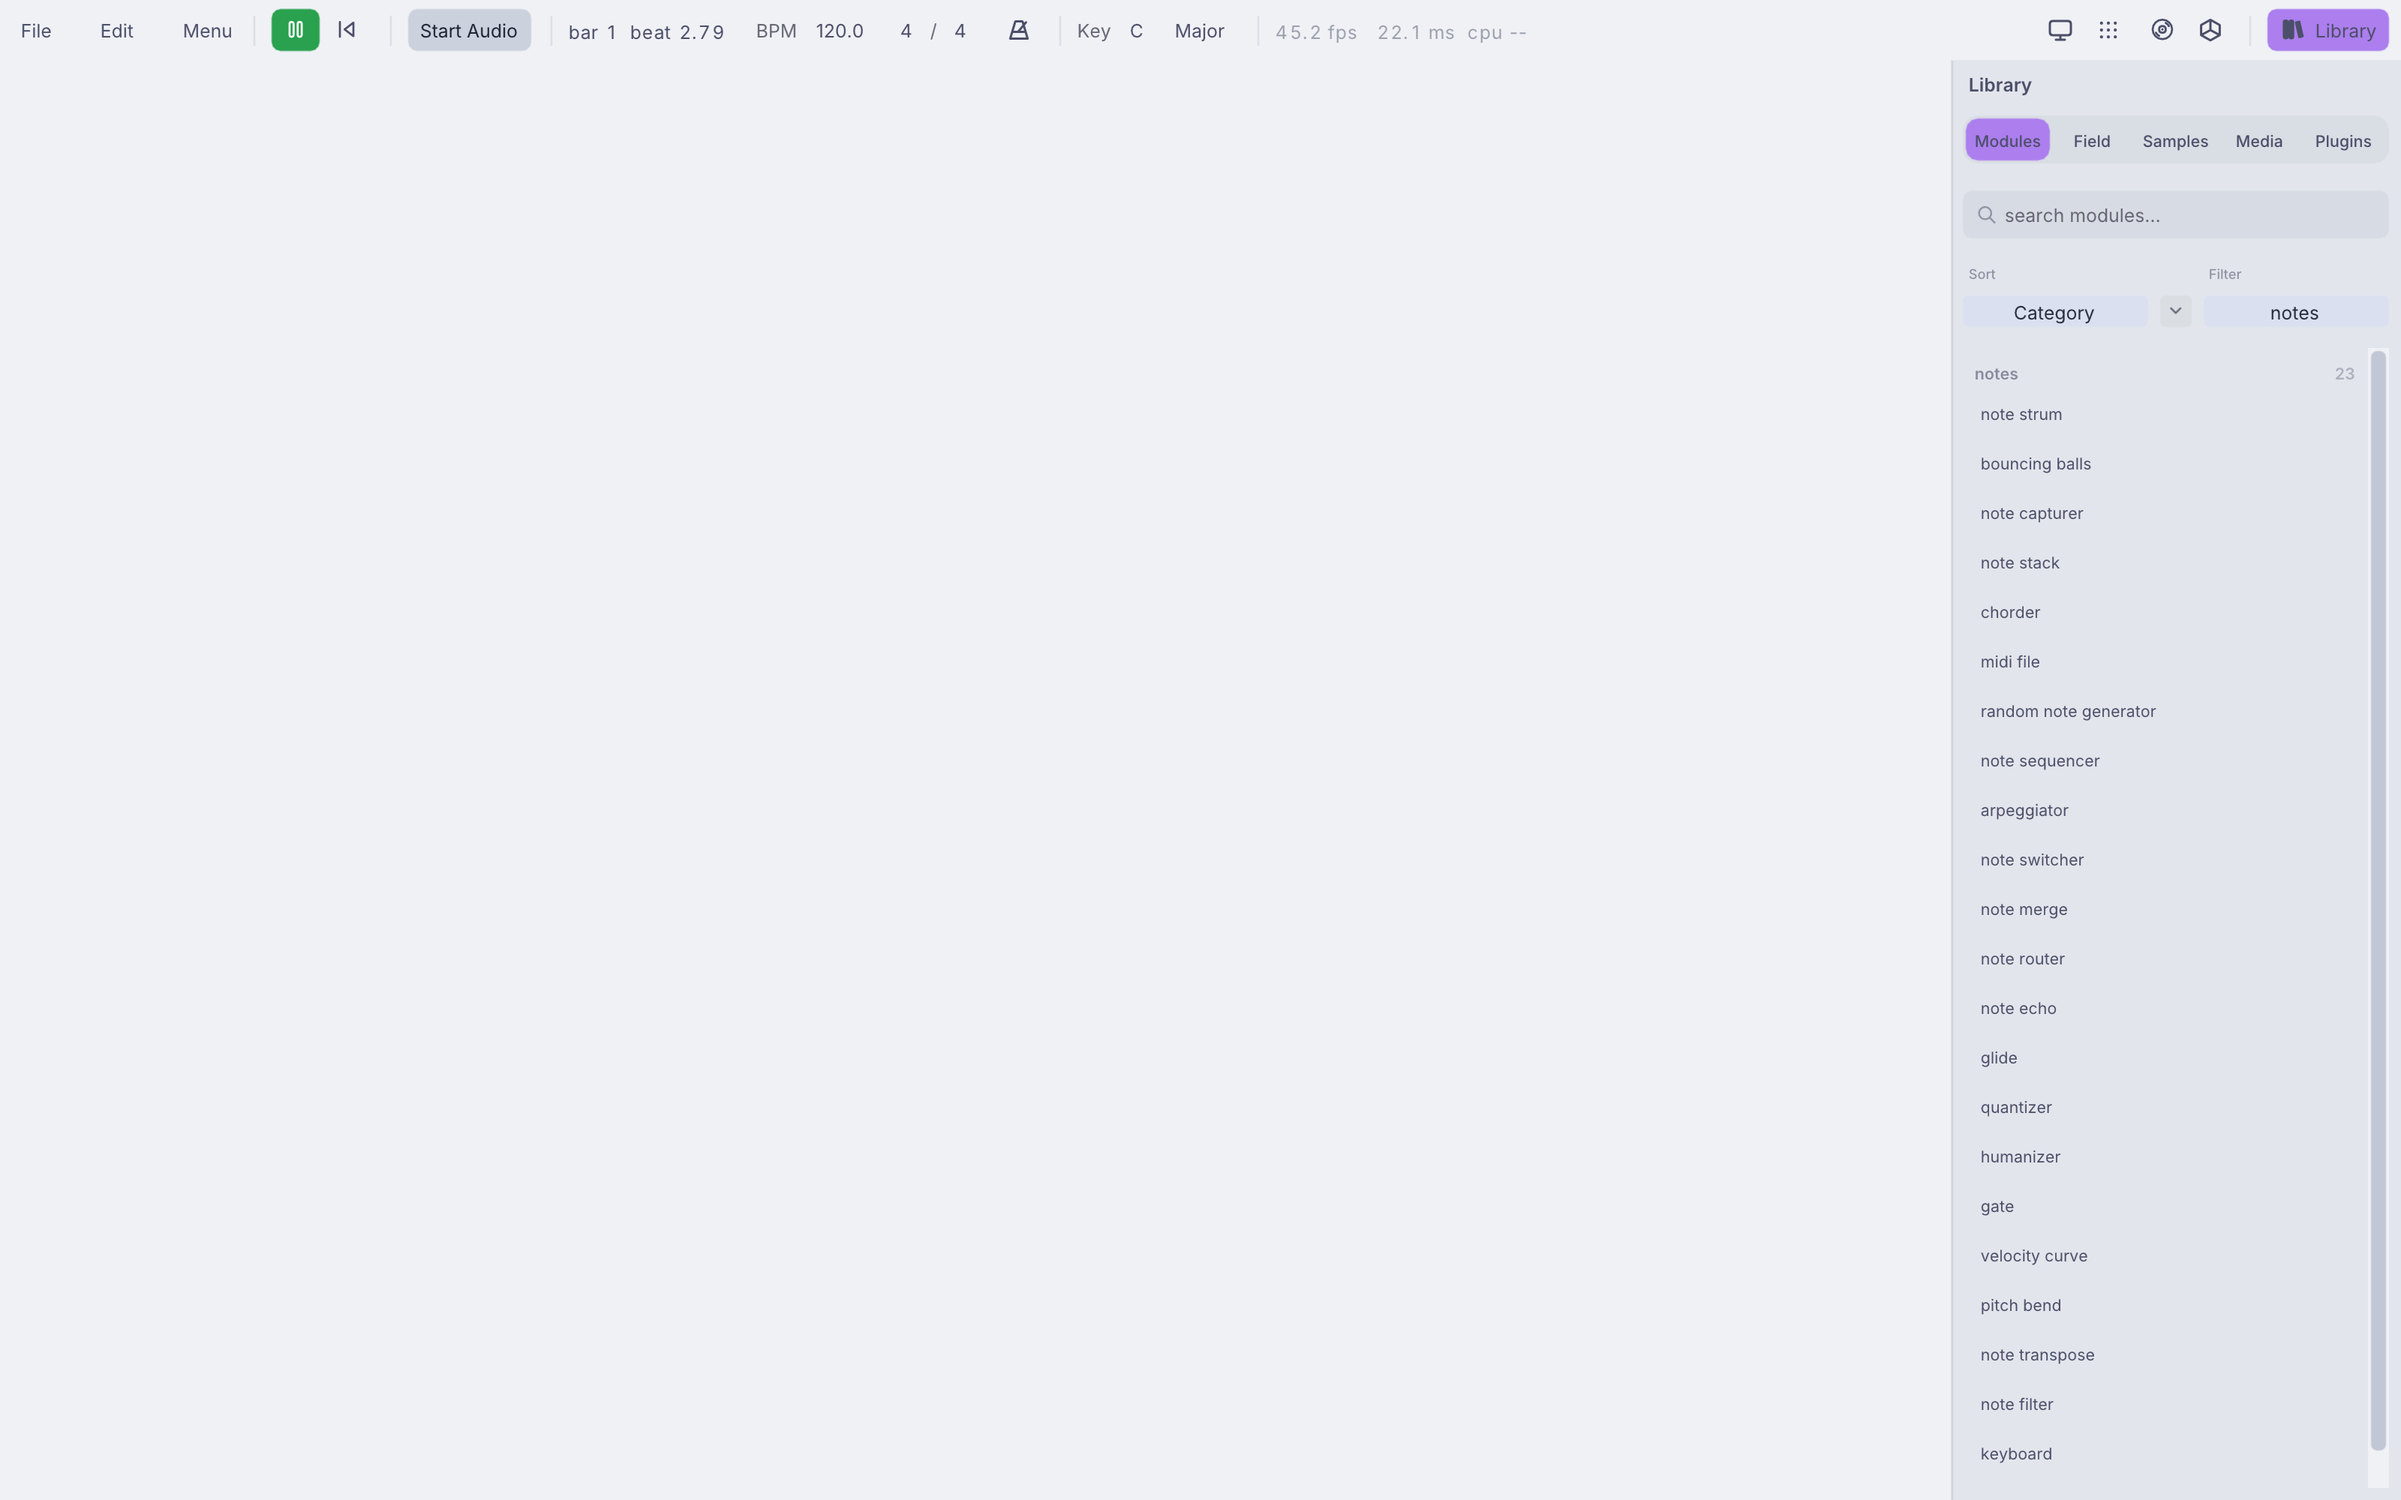
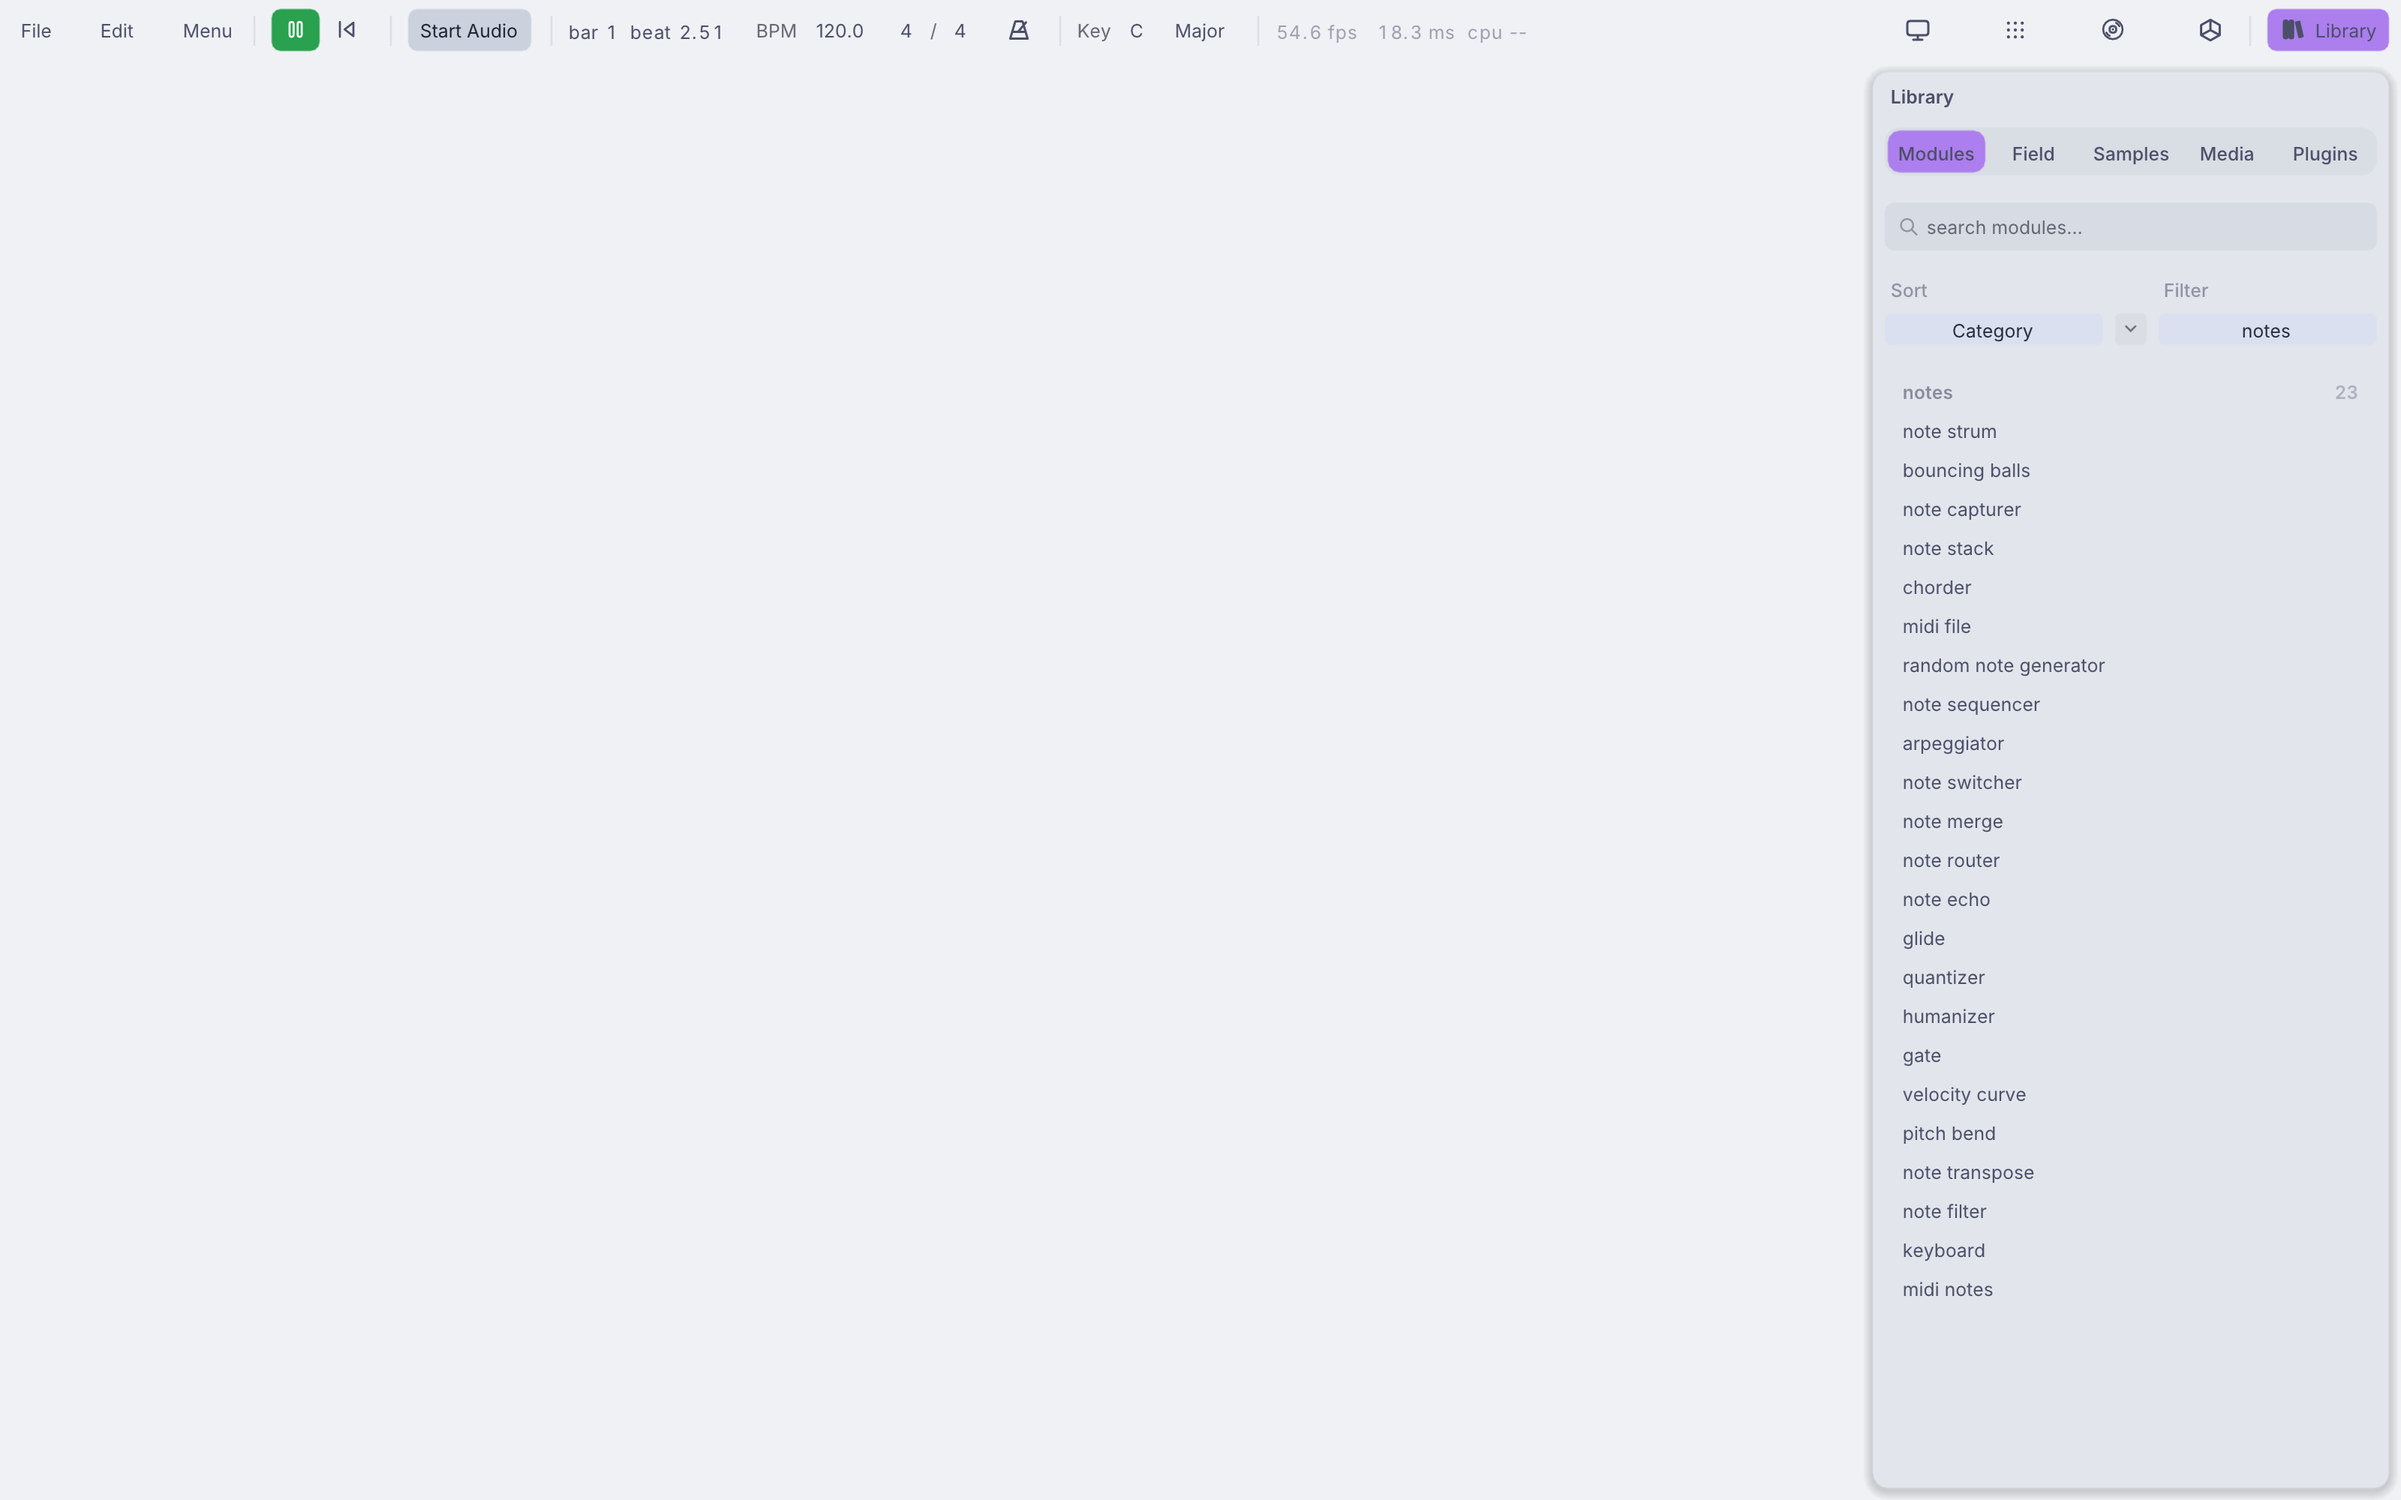
Library panel: floating rounded card with soft shadow, no border or seam; title dropped, tabs lead

diff --git a/src/app/frame/StageSidePanels.cpp b/src/app/frame/StageSidePanels.cpp
@@ -272,30 +272,29 @@ void DrawSidePanels(FrameCtx& fc)
       {
          ImGui::SameLine(0.0f, 0.0f);
          PushDockedPanelStyle(/*isChild=*/true);
-         // See DrawModMatrixDocked's inner-content child for why
-         // AlwaysUseWindowPadding is needed alongside Border now.
+         // Floating card: the child itself is transparent; the rounded surface and its soft shadow are drawn
+         // on the parent list underneath, inset by the gap so the card never touches the window, top bar or canvas.
+         const float cardGap = tok::space_2;
+         {
+            const ImVec2 p0 = ImGui::GetCursorScreenPos();
+            const ImVec2 c0(p0.x + cardGap, p0.y + cardGap);
+            const ImVec2 c1(p0.x + kNodePanelWidth - cardGap, p0.y + graphHeight - cardGap);
+            ImDrawList* pdl = ImGui::GetWindowDrawList();
+            for (int i = 6; i >= 1; --i)   // soft shadow: stacked, widening, fainter rings
+               pdl->AddRectFilled(ImVec2(c0.x - i, c0.y - i + 2.0f), ImVec2(c1.x + i, c1.y + i + 2.0f),
+                                  IM_COL32(0, 0, 0, 7), tok::radius_group + i);
+            pdl->AddRectFilled(c0, c1, ImGui::GetColorU32(ImGuiCol_ChildBg), tok::radius_group);
+         }
+         ImGui::PushStyleColor(ImGuiCol_ChildBg, ImVec4(0, 0, 0, 0));
+         ImGui::PushStyleVar(ImGuiStyleVar_WindowPadding, ImVec2(cardGap + tok::space_2, cardGap + tok::space_2));
          ImGui::BeginChild("##nodepanel", ImVec2(kNodePanelWidth, graphHeight),
-                           ImGuiChildFlags_Borders | ImGuiChildFlags_AlwaysUseWindowPadding);
+                           ImGuiChildFlags_AlwaysUseWindowPadding);
+         ImGui::PopStyleVar();
+         ImGui::PopStyleColor();
          PopDockedPanelStyle();
-         // Same hairline as every other panel boundary. This panel has no
-         // resize grip to hang it off, so it draws the seam on its own left
-         // edge - the side that faces the canvas, since it is always the
-         // rightmost panel.
-         {
-            const ImVec2 wp = ImGui::GetWindowPos();
-            const ImVec2 ws = ImGui::GetWindowSize();
-            ImGui::GetWindowDrawList()->AddLine(ImVec2(wp.x + 0.5f, wp.y),
-                                                ImVec2(wp.x + 0.5f, wp.y + ws.y),
-                                                PanelSeamColor(), 1.0f);
-         }
 
-         // Title, then the five modes as one segmented control (the accent pill slides between them).
-         {
-            UiType::Scope ts(UiType::Size::Title, UiType::Weight::Semibold);
-            ImGui::SetCursorPosX(ImGui::GetCursorPosX() + tok::space_1);
-            ImGui::TextUnformatted(T("Library"));
-         }
-         ImGui::Dummy(ImVec2(0, tok::space_1));
+         // The five modes as one segmented control (the accent pill slides between them). No title: the top bar
+         // button already names the panel.
          {
             static const int kModes[5] = { 0, 4, 1, 2, 3 };   // gSearchPanelMode value per segment
             const PillGroup::Segment segs[5] = { { "lib.modules", T("Modules") }, { "lib.field", T("Field") },

diff --git a/src/app/frame/StageMenuBar.cpp b/src/app/frame/StageMenuBar.cpp
@@ -920,11 +920,11 @@ void DrawMenuBar(FrameCtx& fc)
          // these are the first things dropped on a narrow window, since they
          // carry no text label and are the least essential of the cluster.
          // The four toggles spread evenly across the Library panel's tab row: the span runs from the panel's
-         // inner left edge (kNodePanelWidth minus its 8 pt padding each side) to the hairline. Falls back to a
+         // inner left edge (kNodePanelWidth minus its 16 pt gap and padding each side) to the hairline. Falls back to a
          // tight pack when the window is too narrow for that span.
          float iconGap = tok::space_1;
          {
-            const float regionLeft = windowRight - (fc.kNodePanelWidth - 16.0f);
+            const float regionLeft = windowRight - (fc.kNodePanelWidth - 32.0f);
             const float even = (cursorX - regionLeft - 4.0f * tok::tile) / 3.0f;
             if (regionLeft >= leftClusterEndX + minGap && even > tok::space_1)
                iconGap = even;

diff --git a/src/app/frame/StageLayout.cpp b/src/app/frame/StageLayout.cpp
@@ -88,7 +88,7 @@ void DrawLayout(FrameCtx& fc)
          liveCfg.NavigateButtonIndex = gPanWithLeft ? 0 : 1;
       }
 
-      kNodePanelWidth = 340.0f;
+      kNodePanelWidth = 360.0f;
       const bool viewportPanelOpen = gViewportPanelOpen;
       viewportBottom = viewportPanelOpen && gViewportPanelDock == 0;
       viewportRight = viewportPanelOpen && gViewportPanelDock == 1;
